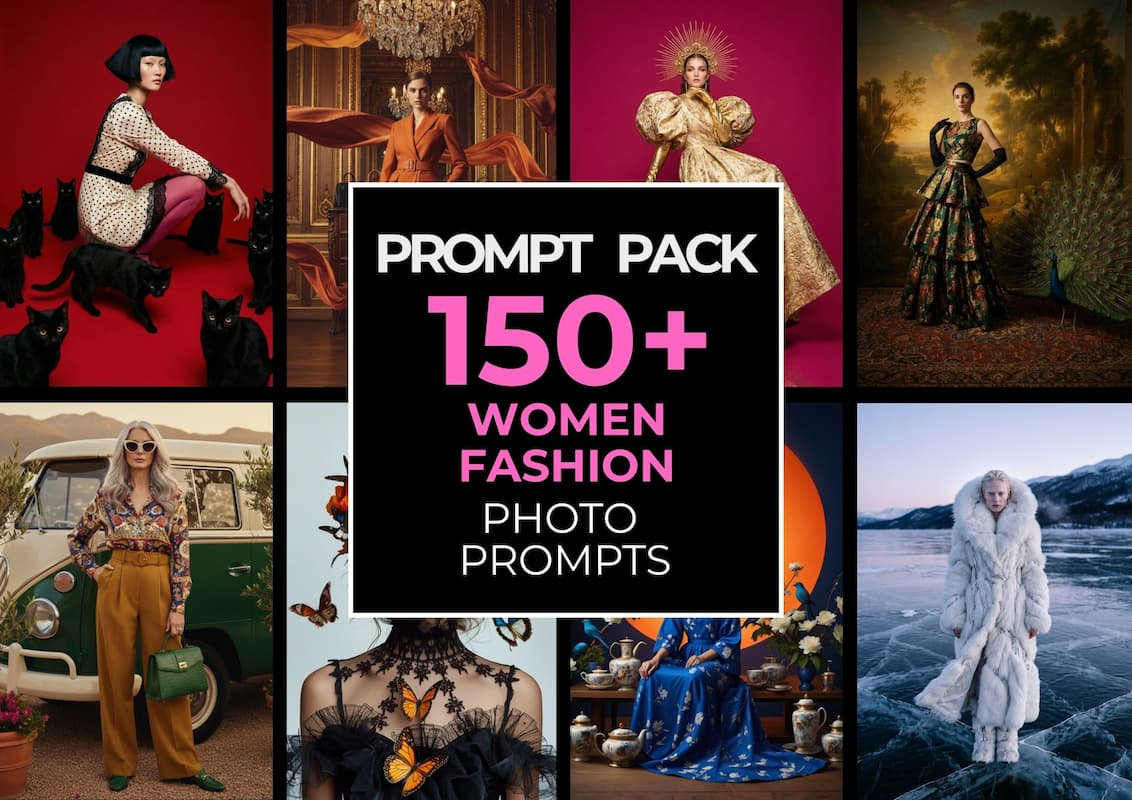
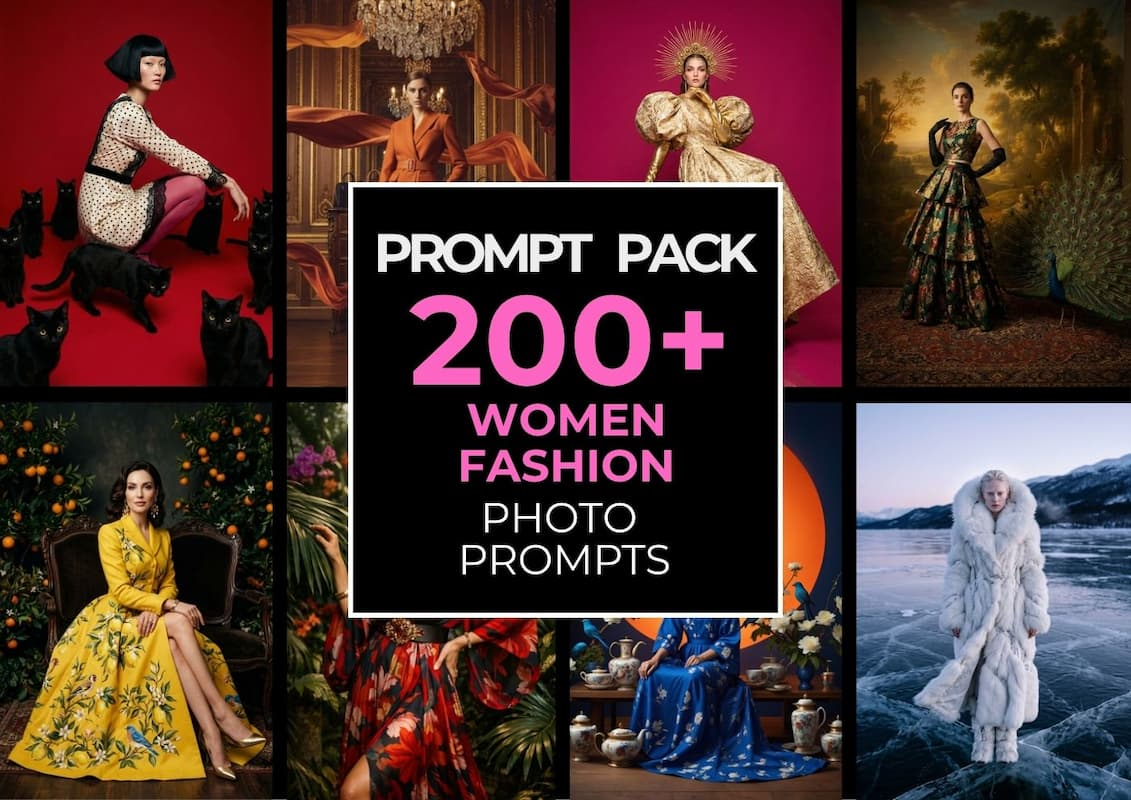
Update Women Fashion Editorial Prompts

diff --git a/src/content/promptbooks/index.ts b/src/content/promptbooks/index.ts
@@ -587,12 +587,12 @@ export const PROMTBOOKS: Record<string, PromptBookRaw> = {
   "women-fashion-editorial-prompts": {
     id: 66,
     gumroadSlug: "women-fashion-editorial-prompts",
-    number: 150,
+    number: 200,
     isGrowing: true,
     mainCategory: "fashion",
     tags: ["fashion", "women"],
     type: "pack",
-    images: [1, 3, 4, 5, 6, 7, 8, 9],
+    images: [1, 3, 4, 5, 6, 7, 8, 9, 10],
     og: true,
   },
 
